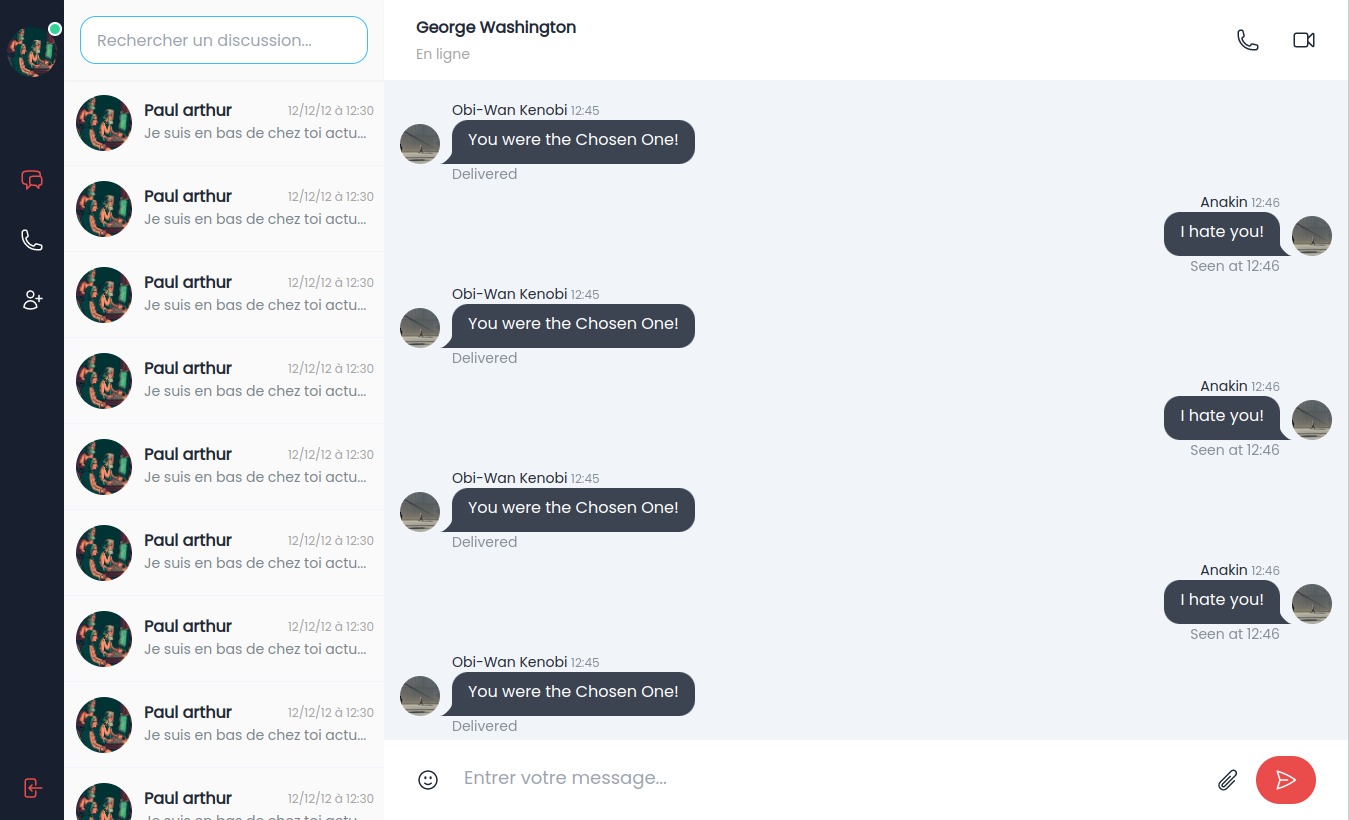
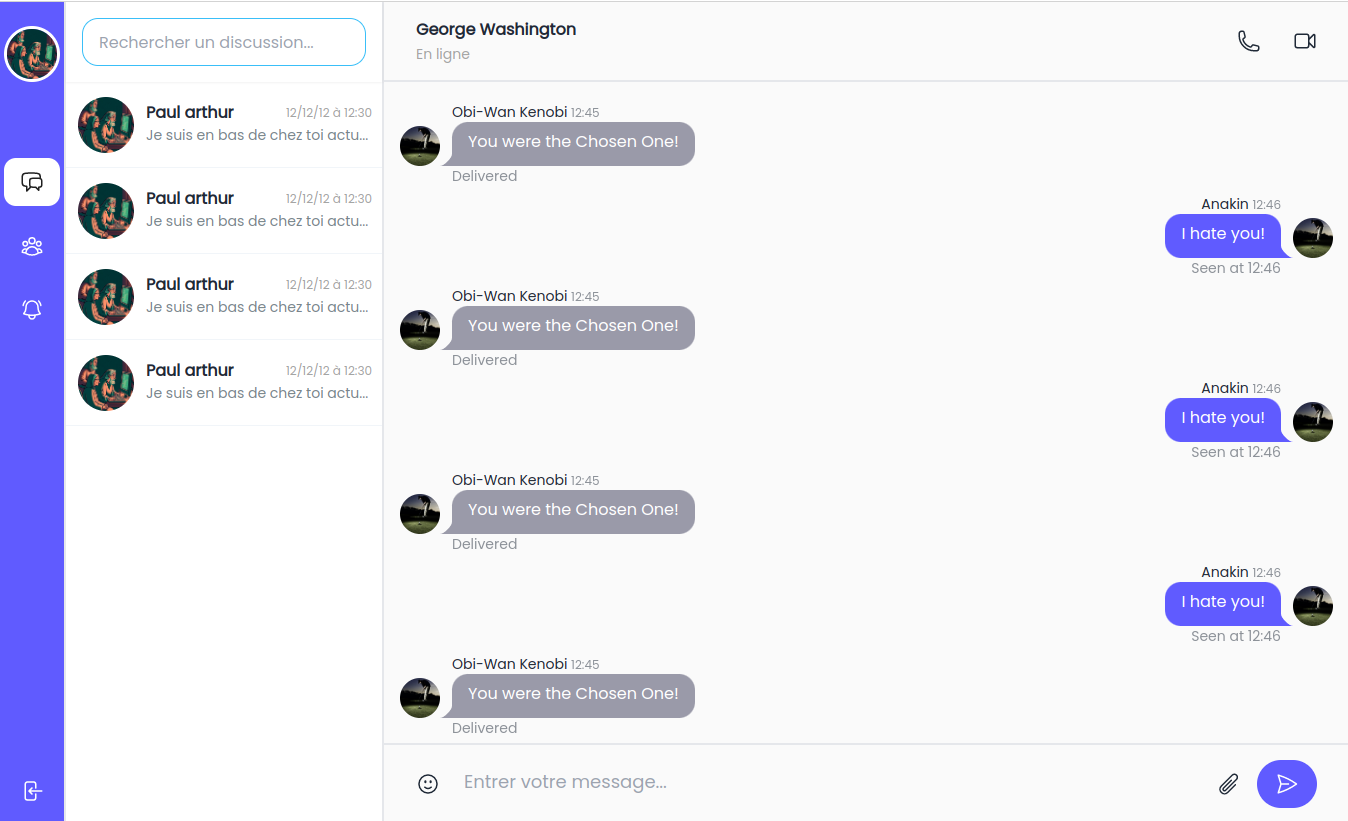
modif de l'image du fichier de message

diff --git a/src/routes/(home)/messages/+page.svelte b/src/routes/(home)/messages/+page.svelte
@@ -1,7 +1,7 @@
 <script lang="ts">
-  let viewIsSet = false;
+  let viewIsSet = true;
   export let data;
-  let discussions: [] = null;
+  let discussions: [] = ["1", "1", "1", "1"];
 </script>
 
 <svelte:head>
